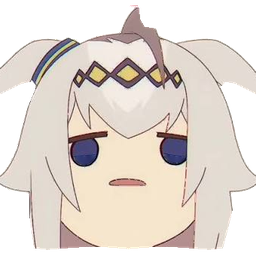
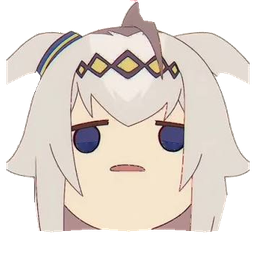
style(ui): centre the Oguri spinner on its centroid so the spin stops wobbling

diff --git a/src/components/OguriSpinner.tsx b/src/components/OguriSpinner.tsx
@@ -13,15 +13,19 @@ import type React from "react"
  * resource icons follow (see ui-conventions.md, "Column labels may be icons").
  * The PNG is a 256px square with a transparent background, cropped tight to the
  * head (the ear tips lose ~6% a side) so it fills its box instead of floating
- * in transparent bands, and centred so it rotates about its own middle.
+ * in transparent bands. It is placed with its alpha CENTROID on the canvas
+ * centre, not its bounding box: the top of the head is a thin ahoge and the
+ * bottom a full-width flat cut, so the visual mass sits ~5% below the
+ * geometric middle and a box-centred head visibly wobbled while spinning.
+ * That costs a ~9% transparent band under the neck (the head is 95% of the
+ * box wide), which is the price of a rotation that looks pinned.
  *
  * Two sizes because the slots are shaped very differently:
  *  - "sm" — 32px, for inside a 36px control: the navbar save button and the
- *           timeline's "Loading more events" row. The flat-cut bottom of the
- *           hair puts the farthest opaque pixel ~0.6 of the side from centre
- *           (measured), so while spinning the head sweeps a ~38px circle —
- *           1px past the 36px button on the worst frames. Fine because the
- *           save button has no border to cross and nothing clips it.
+ *           timeline's "Loading more events" row. The farthest opaque pixel
+ *           is ~0.55 of the side from the centre (measured), so while spinning
+ *           the head sweeps a ~35px circle — inside the 36px button at every
+ *           angle, with nothing to clip it anyway.
  *  - "lg" — 80px, the page-level loader (calculator gate, changelog, account,
  *           OAuth callback).
  *
